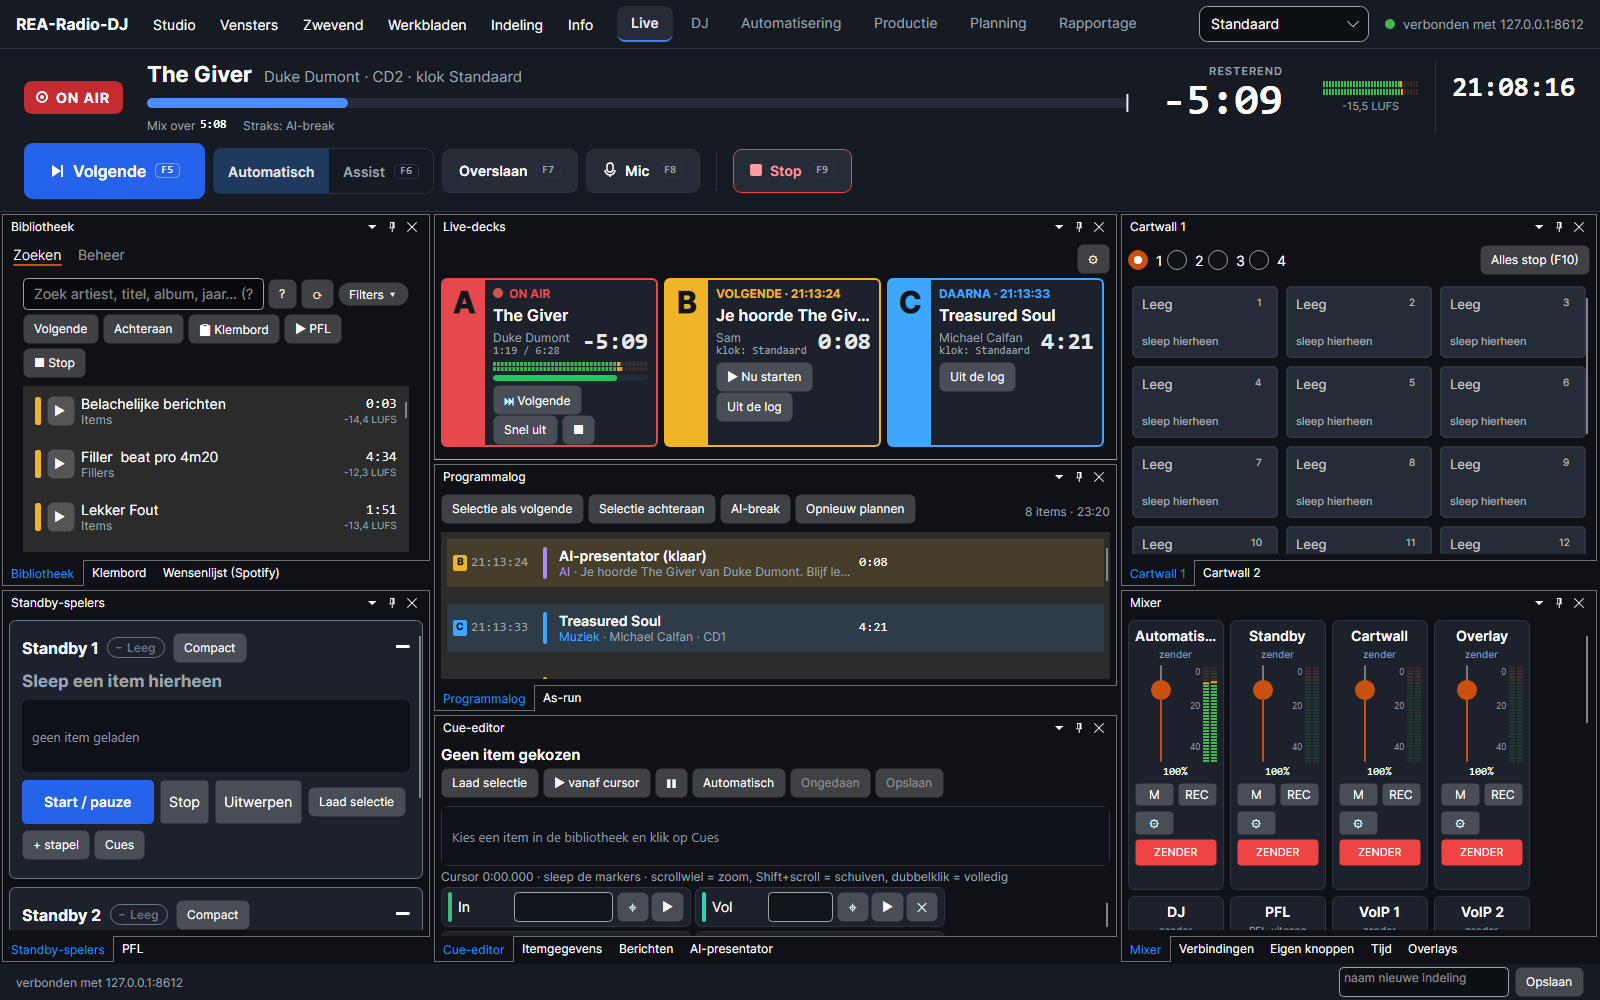
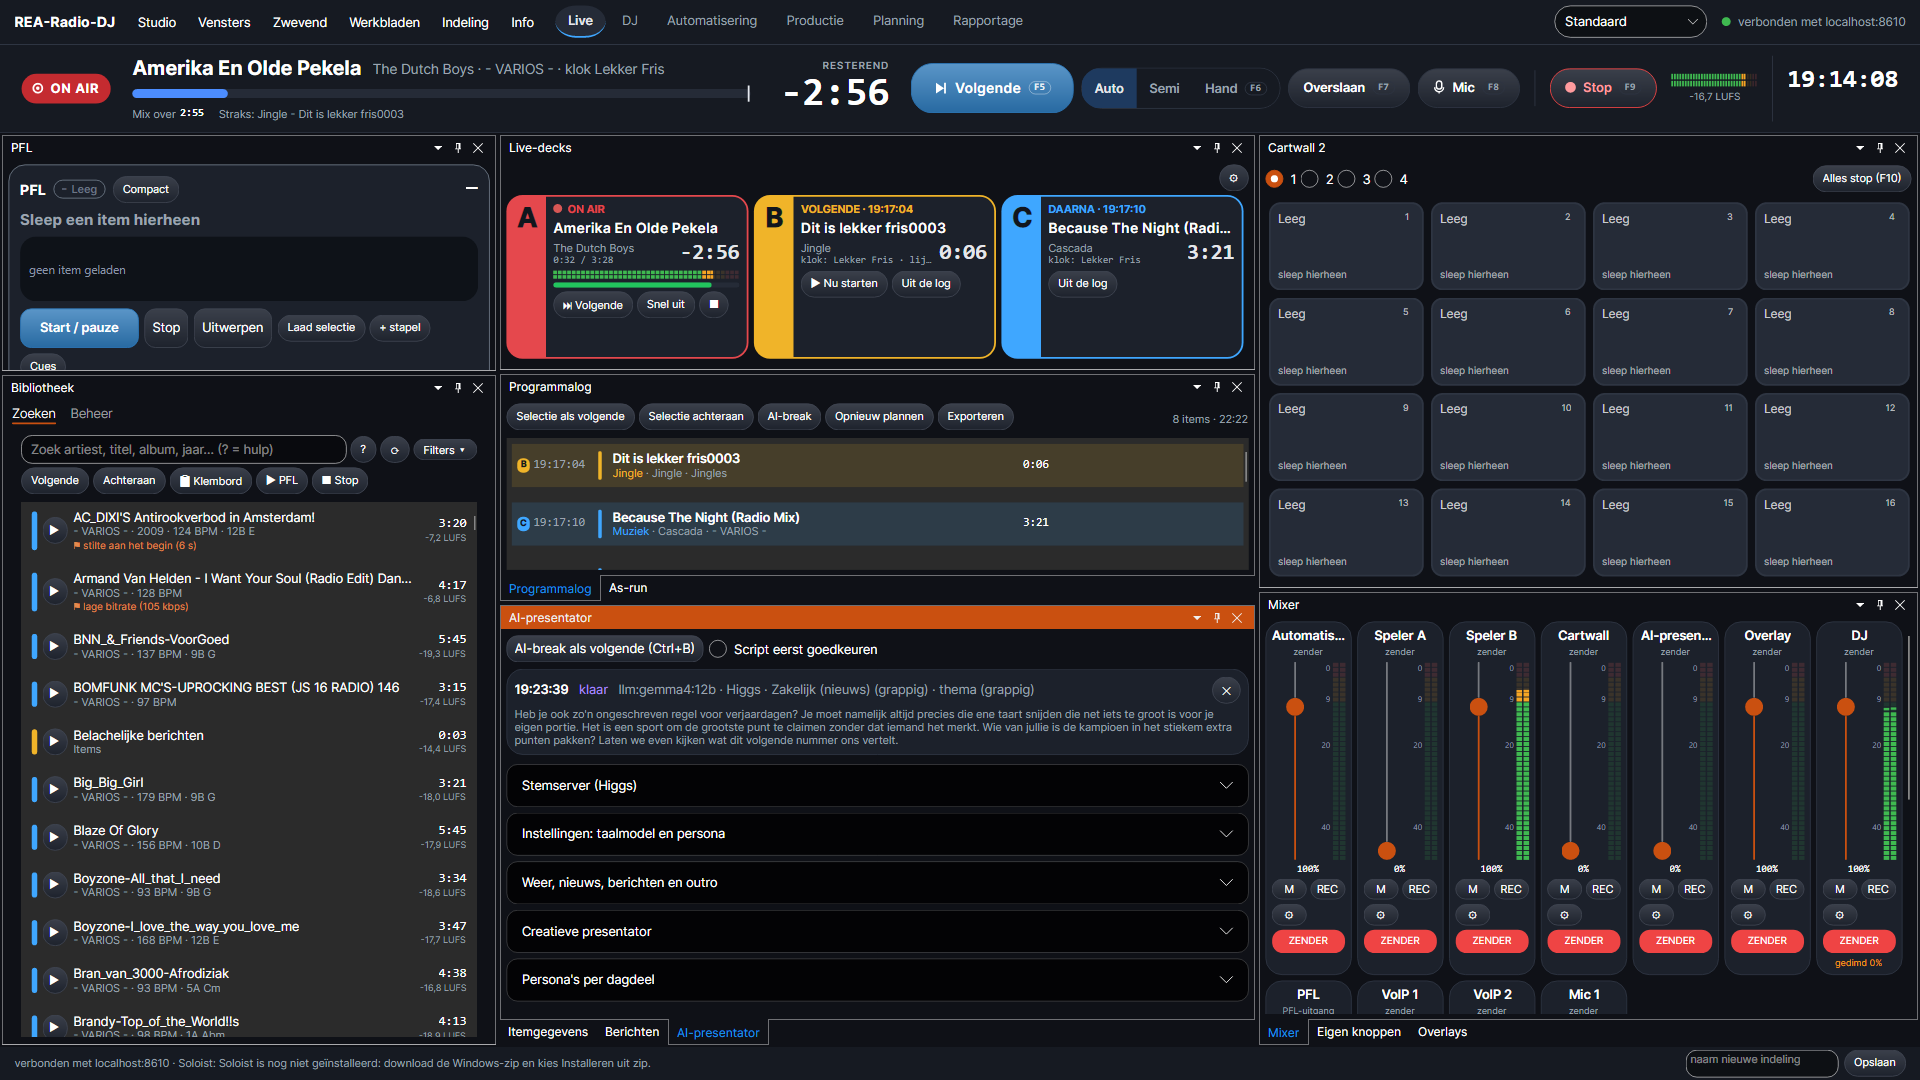
README: fresh screenshots (Live, DJ with stems, Verbindingen with Opus) and recent features
Stems, AUTO/SEMI/HAND with the log under the faders, automix on 2 or 4 decks,
https and voicetracking from the browser, the central library, and the iCON
V1-M as tested.

diff --git a/README.md b/README.md
@@ -16,12 +16,14 @@ Hoe je ermee werkt, in de studio en als beheerder, staat in de [handleiding](doc
 
 | | |
 |---|---|
-| ![DJ-modus met twee decks, mengpaneel en automix](docs/screenshots/dj-modus.png) | ![Automatisering met de programmalog, klok en berichten](docs/screenshots/automatisering.png) |
-| **DJ-modus**: decks met golfvorm en beatstrepen, mengpaneel en automix | **Automatisering**: programmalog met AI-presentator, klok en berichten |
+| ![DJ-modus met twee decks, stems, mengpaneel en effecten](docs/screenshots/dj-modus.png) | ![Automatisering met de programmalog, klok en berichten](docs/screenshots/automatisering.png) |
+| **DJ-modus**: decks met golfvorm en beatstrepen, stems (zang, drums, bas, rest), mengpaneel en effecten | **Automatisering**: programmalog met AI-presentator, klok en berichten |
 | ![Productie met bibliotheek, cue-editor en voicetracking](docs/screenshots/productie.png) | ![Planning met de planner, reclame en programmalog](docs/screenshots/planning.png) |
 | **Productie**: bibliotheek, cue-editor, voicetracking en PFL | **Planning**: dag, week, klokken en vaste tijden, reclamecampagnes |
 | ![Rapportage met as-run, muziekrapport, stream en regiekamer](docs/screenshots/rapportage.png) | ![Het venster Uitsturing met een grote meter en een open-lampje per kanaal](docs/screenshots/uitsturing.png) |
 | **Rapportage**: as-run, muziekrapport (CSV en PDF), stream en regiekamer | **Uitsturing**: programma met loudness en per kanaal een meter met OPEN/DICHT |
+| ![Verbindingen met twee VoIP-lijnen via Opus, met meting](docs/screenshots/verbindingen.png) | |
+| **Verbindingen**: twee VoIP-lijnen, hier met Opus, met verlies, jitter en buffer | |
 
 Elk venster is te verslepen, te docken of los te laten zweven, ook op een tweede scherm.
 
@@ -63,6 +65,9 @@ Elk venster is te verslepen, te docken of los te laten zweven, ook op een tweede
   *Controleer* laat zien hoeveel dat er zijn.
 - **Gebeurtenissen op een plek in een nummer**: een volume-omhullende of een commando op een tijdstip, te zetten in
   de cue-editor.
+- **Speelwijze AUTO, SEMI en HAND**: de log loopt vanzelf, jij valt in (de log wacht op je eigen nummer), of je
+  start alles zelf. De log kan **onder de faders** lopen: muziek op speler A/B, jingles op de cartwall en AI-breaks
+  op de AI-presentator, elk met een eigen fader die meebeweegt.
 - **Studio-spelers**: standby-spelers met stapel, een PFL-speler, cartwalls van 4 × 16 knoppen, overlays en een
   klembord om nummers te parkeren.
 
@@ -96,7 +101,10 @@ Elk venster is te verslepen, te docken of los te laten zweven, ook op een tweede
 ### DJ-modus
 - Vier decks met doorlopende golfvormen en beatstrepen, sync, hot cues, loops en loop-roll, Quantize, effecten op
   de beat, censuur, rem en backspin, een sampler, cue-mix op de koptelefoon en een begrenzer.
-- **Automix** met overgangstypes, en de automatisering loopt onhoorbaar door terwijl de DJ op de lucht is.
+- **Stems**: per deck zang, drums, bas en de rest los aan of uit, bijvoorbeeld voor een instrumentale versie. Ze
+  worden op de achtergrond op de processor gemaakt (HT-Demucs, op lage prioriteit) en bewaard tot 20 GB. Het
+  model (`data\models\htdemucs.onnx`) zit niet in de download.
+- **Automix** op 2 of 4 decks met overgangstypes (ook via de kanaalfaders), en de automatisering loopt onhoorbaar door terwijl de DJ op de lucht is.
 - Mix opnemen; bediening van decks via de commandobus en MIDI leren. *Nog niet beluisterd.*
 
 ### Verbindingen (VoIP)
@@ -138,10 +146,14 @@ Elk venster is te verslepen, te docken of los te laten zweven, ook op een tweede
   *Ember+ is nog niet tegen een echt apparaat getest.*
 - **Mackie Control**: een bedieningspaneel met motorfaders (bijv. iCON V1-M, met een uitbreiding zoals de
   V1-X ernaast) bedient het mengpaneel: volume, balans, dempen, opnemen en naar de zender per kanaal, met display
-  en meters; de faders volgen de studio.
-  *Nog niet tegen een echt paneel getest.*
+  en meters; de faders volgen de studio. Op een iCON V1-M zet REA zijn eigen indeling in het paneel, met de nummers
+  per fader op het scherm, een DJ-indeling met faderstart en de jogwheel door de log. Getest met een iCON V1-M.
 
 ### De studio
+- **Https op het netwerk** met een eigen certificaat van het station (poort 8443), en **voicetracking vanuit de
+  browser**: een presentator neemt thuis een praatje op met de microfoon van laptop of telefoon.
+- **Centrale bibliotheek**: één engine leest de muziek in en meet hem; andere studio's nemen dat over en spelen
+  van de share of van een eigen kopie (*Instellingen › Centrale bibliotheek*).
 - **Op afstand**: een pagina voor telefoon en tablet (`/remote/` op de engine) toont wat er speelt en wat er komt,
   met grote knoppen voor start, overslaan en carts. Lezen kan vanaf elke computer; elke actie via het netwerk vraagt
   een aangemelde gebruiker of het bedieningswachtwoord.
